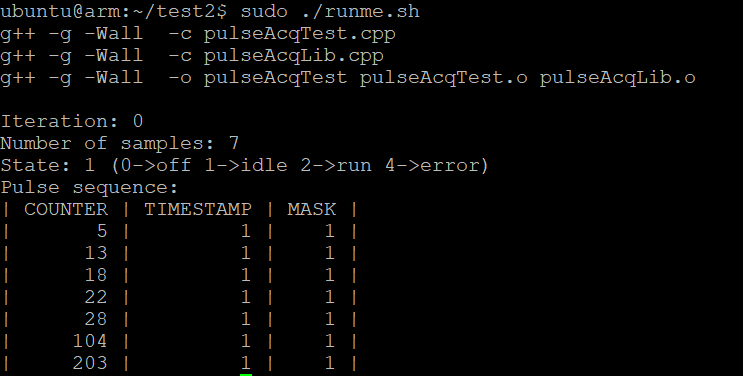
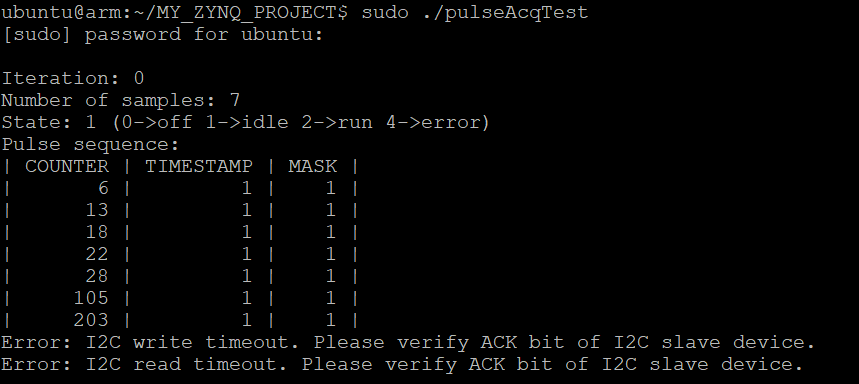
Include I2C in c++ lib and test script

diff --git a/remote/pulseAcqTest.cpp b/remote/pulseAcqTest.cpp
@@ -6,49 +6,47 @@
 #include "pulseAcqLib.h"
 using namespace std;
 
+//I2C PARAM
 
 
 PulseAcq pulseAcq;
 int iterations,counterMax, streamUpCounter, state, counter, mask, timestamp;
-int i2cAddress, i2cDataWrite, i2cDataRead, i2cDataLen;
+int i2cAddress, i2cDataWrite, i2cDataRead, i2cDataLen, i2cTimeout_us, i2cReturnVal;
 
 
 int main() {
-    //Parameters
-    counterMax = 250000; //Integration time in units of 10ns
-    iterations = 4;
-    i2cAddress = 15;
-    i2cDataLen = 4;    
-    //Init config
-    pulseAcq.setCounterMax(counterMax);               //Set integration time
-    pulseAcq.dmaS2MMHalt();                           //Halt DMA
-    pulseAcq.dmaS2MMReset();                          //Reset DMA
-    pulseAcq.dmaS2MMConfig(BUFFER_ADDRESS_OFFSET);    //Config buffer address offset
-    pulseAcq.dmaS2MMStart();                          //Start DMA engine
-    pulseAcq.setResetn(1);                            //Enable acquisistion logic
+    //Acquisition parameters
+    counterMax = 250000;   //Integration time in units of 10ns
+    iterations = 1;        //Iterations of the acquisistion cycle
+    
+    //I2C parameters
+    i2cAddress = 15;       //Slave address
+    i2cDataLen = 1;        //Data len in bytes
+    i2cTimeout_us = 1000;  //Timeout in us
+
+    //i2c config
     pulseAcq.i2cHalt();
     pulseAcq.i2cReset();
     pulseAcq.i2cConfig();
     pulseAcq.i2cStart();
-    
 
-
-    
     for(int i = 0; i<iterations; i++){
         //Acquisition
+        pulseAcq.setResetn(1);                            //Enable acquisistion logic
+        pulseAcq.setCounterMax(counterMax);               //Set integration time
+        pulseAcq.dmaS2MMHalt();                           //Halt DMA
+        pulseAcq.dmaS2MMReset();                          //Reset DMA
+        pulseAcq.dmaS2MMConfig(BUFFER_ADDRESS_OFFSET);    //Config buffer address offset
+        pulseAcq.dmaS2MMStart();                          //Start DMA engine
         pulseAcq.dmaS2MMRun(BUFFER_ADDRESS_RANGE);        //Run DMA engine
         while(pulseAcq.dmaS2MMIsIdle() == false){};       //Wait until acquisistion is finished
         streamUpCounter = pulseAcq.getStreamUpCounter();  //Get number of acquired pulse events
         state = pulseAcq.getState();                      //Get state of acquisiston logic
-        //I2C
-        //i2cDataWrite = i;    
-        //pulseAcq.i2cWrite(i2cAddress, (unsigned char*) &i2cDataWrite, i2cDataLen);
-        //pulseAcq.i2cRead(i2cAddress, (unsigned char*) &i2cDataRead, i2cDataLen);
-
+        pulseAcq.setResetn(0);                            //Disable acquisistion logic */
+        
         //Print results
         cout << endl;
         cout << "Iteration: " + std::to_string(i) << endl;
-        cout << "I2C read: " + std::to_string(i2cDataRead) << endl;
         cout << "Number of samples: " + std::to_string(streamUpCounter) << endl;
         cout << "State: "+ std::to_string(state) + " (0->off 1->idle 2->run 4->error)" << endl;
         cout << "Pulse sequence:"<< endl; 
@@ -65,13 +63,35 @@ int main() {
             cout << " | ";
             cout << std::setw(4) << std::setfill(' ') << mask;
             cout << " |" << endl;
-            
-    	}
-    }
-    
-    //Stop config
-    pulseAcq.setResetn(0);                            //Disable acquisistion logic     
-	
+        }
+
+        //i2c write
+        i2cDataWrite = i;    
+        i2cReturnVal = pulseAcq.i2cWrite(i2cAddress, (unsigned char*) &i2cDataWrite, i2cDataLen, i2cTimeout_us);
+        if(i2cReturnVal == 0){
+            cout << "I2C write successful."<< endl; 
+        }
+        else{
+            cout << "Error: I2C write timeout. Please verify ACK bit of I2C slave device."<< endl; 
+            pulseAcq.i2cHalt();
+            pulseAcq.i2cReset();
+            pulseAcq.i2cConfig();
+            pulseAcq.i2cStart();
+        }
+
+        //i2c read
+        i2cReturnVal = pulseAcq.i2cRead(i2cAddress, (unsigned char*) &i2cDataRead, i2cDataLen, i2cTimeout_us);
+        if(i2cReturnVal == 0){
+            cout << "I2C read successful. Data: " + std::to_string(i2cDataRead) << endl; 
+        }
+        else{
+            cout << "Error: I2C read timeout. Please verify ACK bit of I2C slave device." << endl; 
+            pulseAcq.i2cHalt();
+            pulseAcq.i2cReset();
+            pulseAcq.i2cConfig();
+            pulseAcq.i2cStart();
+        }
+    }          
     return 0;
 }
 

diff --git a/remote/pulseAcqLib.cpp b/remote/pulseAcqLib.cpp
@@ -4,6 +4,7 @@
 #include <sys/stat.h>
 #include <fcntl.h>
 #include <sys/mman.h>
+#include <chrono>
 #include "pulseAcqLib.h"
 using namespace std;
 
@@ -164,7 +165,9 @@ bool PulseAcq::dmaS2MMIsIdle(void){
 * Starts i2c logic.
 *********************************************************************/
 void PulseAcq::i2cStart(void){
+	
 	i2cReg[0x100/4] = 1;
+	
 };
 
 /*********************************************************************
@@ -183,12 +186,13 @@ void PulseAcq::i2cHalt(void){
 *********************************************************************/
 void PulseAcq::i2cConfig(void){
 	i2cReg[0x120/4] = 0xf;
+	i2cReg[0x100/4] = 2;
 };
 
 /*********************************************************************
 * i2cReset
 *
-* Soft resets i2c logic. 
+* Soft resets i2c logic and clears tx fifo. 
 *********************************************************************/
 void PulseAcq::i2cReset(void){
 	i2cReg[0x40/4] = 0xA;
@@ -197,39 +201,75 @@ void PulseAcq::i2cReset(void){
 /*********************************************************************
 * i2cRead
 *
-* Read from I2C slave
+* Read from I2C slave 
 *
 * @param address I2C slave address.
-* @param data Data pointer.
+* @param *dataRx Data pointer.
 * @param dataLen Data length in bytes.
+* @param timeout_us I2C read timeout (in us). 
+* @param return 0 -> successful read 1-> timeout
 *********************************************************************/
-void PulseAcq::i2cRead(int address, unsigned char *data, int dataLen){
+int PulseAcq::i2cRead(int address, unsigned char *dataRx, int dataLen, int timeout_us){
+	int returnVal = 0;
+	auto t_start = std::chrono::high_resolution_clock::now();
 	i2cReg[0x108/4] = (1 << 8) | (address << 1) | 1;
 	i2cReg[0x108/4] = (1 << 9) | dataLen;
-
 	for(int i = 0; i < dataLen; i++){
-		while(i2cReg[0x104/4] & (1 << 6)){}; //Check RX_FIFO_EMPTY flag
-		*data = i2cReg[0x10C/4] & 0xff;
-		data++;
+		while(1){  
+			if((i2cReg[0x104/4] & (1 << 6)) == 0){         //RX FIFO not empty
+				returnVal |= 0;
+				break;
+			}			
+
+			auto t_now = std::chrono::high_resolution_clock::now();
+			double elapsed_time_us = std::chrono::duration<double, std::micro>(t_now-t_start).count();
+			if(elapsed_time_us > timeout_us){              //Timeout
+				returnVal |= 1;	
+				break;
+			}
+		}
+
+		*dataRx = i2cReg[0x10C/4] & 0xff;
+		dataRx++;
 	}
+	return returnVal;
 };
+
+
 
 /*********************************************************************
 * i2cWrite
 *
-* Write I2C slave
+* Write to I2C slave 
 *
 * @param address I2C slave address.
-* @param data Data pointer.
+* @param *dataTx Data pointer.
 * @param dataLen Data length in bytes.
+* @param timeout_us I2C write timeout (in us). 
+* @param return 0 -> successful write 1-> timeout
 *********************************************************************/
-void PulseAcq::i2cWrite(int address, unsigned char *data, int dataLen){
+int PulseAcq::i2cWrite(int address, unsigned char *dataTx, int dataLen, int timeout_us){
+	int returnVal = 0;
+	auto t_start = std::chrono::high_resolution_clock::now();
 	i2cReg[0x108/4] = (1 << 8) | (address << 1) | 0;
-
 	for(int i = 0; i < (dataLen - 1); i++){
-		while(i2cReg[0x104/4] & (1 << 4)){}; //Check TX_FIFO_FULL flag
-		i2cReg[0x108/4] = *data;
-		data++;
+		i2cReg[0x108/4] = *dataTx;
+		dataTx++;
 	}
-	i2cReg[0x108/4] = (1 << 9) | *data;
+	i2cReg[0x108/4] = (1 << 9) | *dataTx;
+
+	while(1){  
+			if((i2cReg[0x104/4] & (1 << 7)) != 0){         //TX FIFO empty
+				returnVal |= 0;
+				break;
+			}			
+
+			auto t_now = std::chrono::high_resolution_clock::now();
+			double elapsed_time_us = std::chrono::duration<double, std::micro>(t_now-t_start).count();
+			if(elapsed_time_us > timeout_us){              //Timeout
+				returnVal |= 1;	
+				break;
+			}
+		}
+	return returnVal;
 };

diff --git a/remote/pulseAcqLib.h b/remote/pulseAcqLib.h
@@ -11,8 +11,7 @@
 //Define buffer address offset and range. Within reserved memory region [0x10000000,0x20000000]
 #define BUFFER_ADDRESS_OFFSET 0x10000000 
 #define BUFFER_ADDRESS_RANGE 0x100000
-//Define max buffer length (in units of 64 bits)
-#define MAX_BUFFER_LEN = 100000
+
 
 class PulseAcq{
 private: 
@@ -46,8 +45,8 @@ public:
     void i2cHalt(void);
     void i2cReset(void);
     void i2cConfig(void);
-    void i2cRead(int address, unsigned char *data, int dataLen);
-    void i2cWrite(int address, unsigned char *data, int dataLen);
+    int i2cRead(int address, unsigned char *data, int dataLen, int timeout_us);
+    int i2cWrite(int address, unsigned char *data, int dataLen, int timeout_us);
 };
 
 

diff --git a/local/zynqUbuntuLIB.py b/local/zynqUbuntuLIB.py
@@ -104,5 +104,5 @@ class zynq():
 ###############################################################################
     def executeBash(self,filePath):
         self.sshExecCommand("echo "+self.SSH_PWD+" | sudo -S chmod +x "+os.path.join(self.baseDirRemote,filePath))
-        self.sshExecCommand("cd " + self.baseDirRemote  + "; chmod +x " + filePath + "; echo "+self.SSH_PWD + " | sudo -S ./" + filePath)
+        self.sshExecCommand("cd " + self.baseDirRemote  + "; echo "+self.SSH_PWD + " | sudo -S ./" + filePath)
         return
